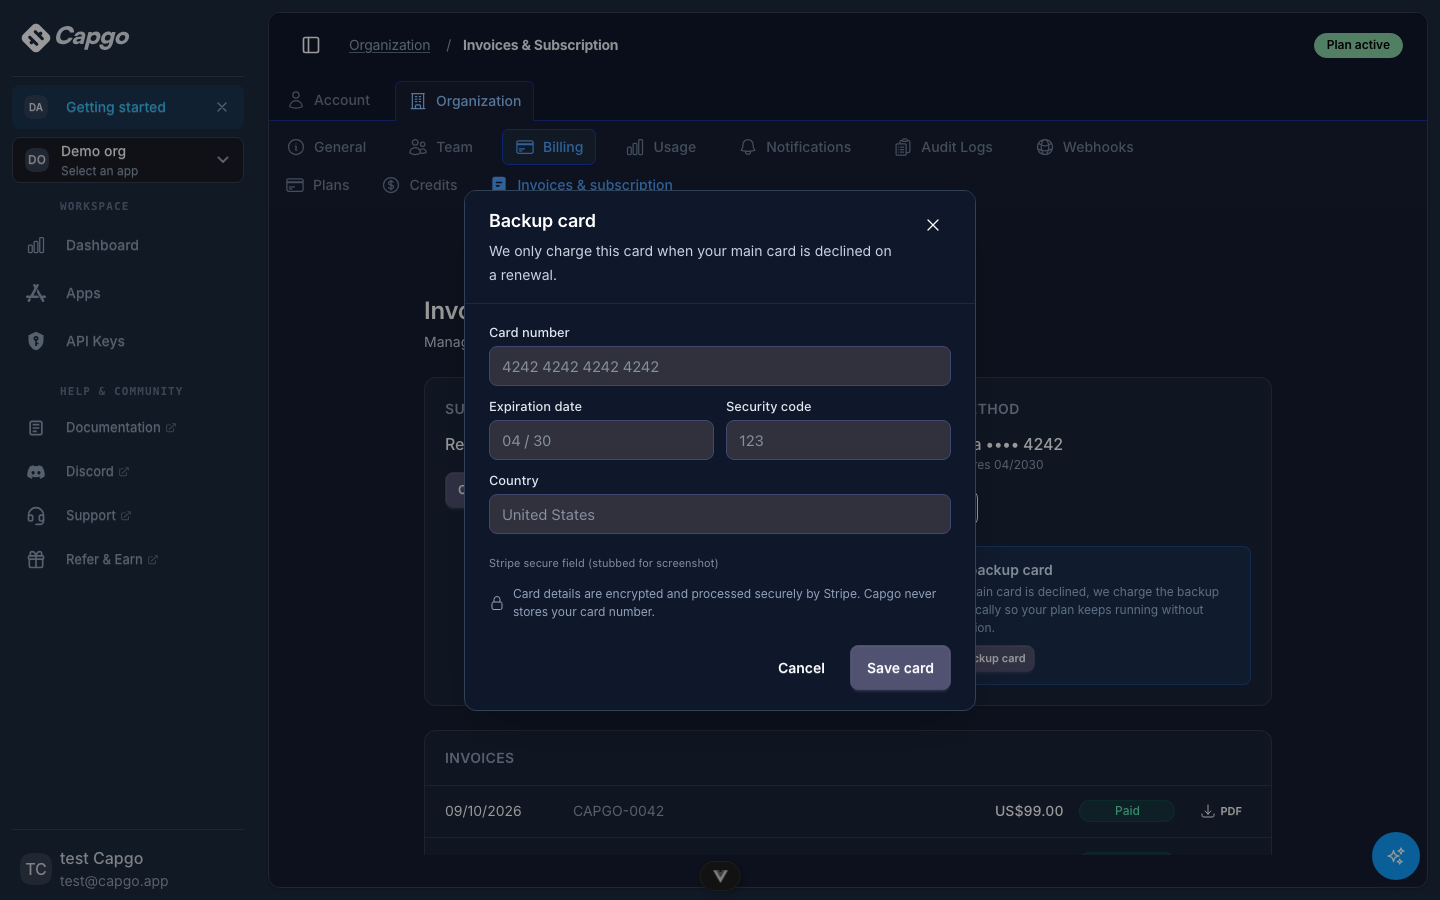
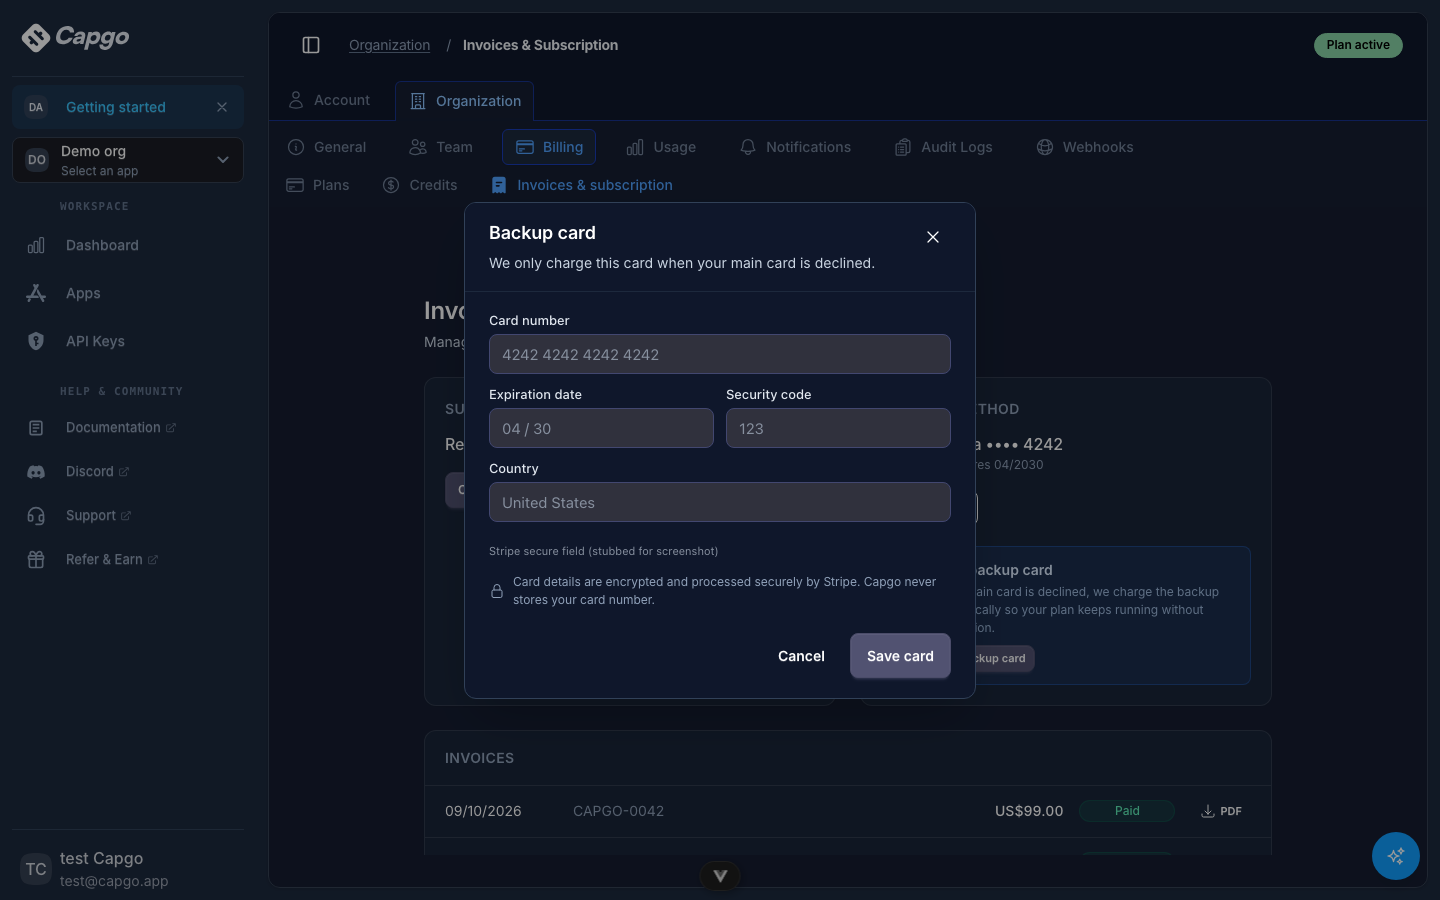
fix(billing): keep a single backup card and scope removal to its org
- Saving a backup retires older spare cards, and removing it detaches them,
  so a superseded card can never come back as the backup. Cards Stripe may
  charge on its own (subscription card, customer default) are never detached.
- Reject the main card as its own backup (same fingerprint).
- Lock removal before the permission check and ignore results after an org switch.
- Backup copy covers every fallback, not only renewals.

Changed region(s): [[0.3438, 0.3422, 0.6562, 0.7778], [0.3438, 0.2178, 0.625, 0.3111]]

diff --git a/supabase/functions/_backend/utils/stripe_in_app.ts b/supabase/functions/_backend/utils/stripe_in_app.ts
@@ -128,7 +128,7 @@ async function getSubscriptionDefaultPaymentMethod(c: Context, stripe: Stripe, c
 async function findSavedPaymentMethods(c: Context, stripe: Stripe, customerId: string, newCardId?: string) {
   const customer = await stripe.customers.retrieve(customerId, { expand: ['invoice_settings.default_payment_method'] })
   if (customer.deleted)
-    return { defaultPaymentMethod: null, backupPaymentMethod: null, isCustomerDefault: false }
+    return { defaultPaymentMethod: null, backupPaymentMethod: null, isCustomerDefault: false, spareCards: [] }
   const [cards, subscriptionDefault] = await Promise.all([
     stripe.paymentMethods.list({ customer: customerId, type: 'card', limit: 10 }),
     getSubscriptionDefaultPaymentMethod(c, stripe, customerId),
@@ -144,7 +144,22 @@ async function findSavedPaymentMethods(c: Context, stripe: Stripe, customerId: s
   const backupPaymentMethod = cards.data.find(paymentMethod => paymentMethod.id !== defaultPaymentMethod?.id
     && !isExpired(paymentMethod)
     && (!defaultFingerprint || paymentMethod.card?.fingerprint !== defaultFingerprint)) ?? null
-  return { defaultPaymentMethod, backupPaymentMethod, isCustomerDefault }
+  // Cards Stripe may charge on its own (subscription card, customer default) are never spare.
+  const inUse = new Set([subscriptionDefault?.id, isCustomerDefault ? customerDefault.id : undefined, defaultPaymentMethod?.id])
+  const spareCards = cards.data.filter(paymentMethod => !inUse.has(paymentMethod.id))
+  return { defaultPaymentMethod, backupPaymentMethod, isCustomerDefault, spareCards }
+}
+
+// Only one backup at a time: an older spare card must never come back as the backup.
+async function detachSpareCards(c: Context, ctx: InAppBillingContext, spareCards: Stripe.PaymentMethod[], keepId?: string) {
+  await Promise.all(spareCards.filter(paymentMethod => paymentMethod.id !== keepId).map(async (paymentMethod) => {
+    try {
+      await ctx.stripe.paymentMethods.detach(paymentMethod.id)
+    }
+    catch (error) {
+      cloudlogErr({ requestId: c.get('requestId'), message: 'detachSpareCards', customerId: ctx.customerId, paymentMethodId: paymentMethod.id, error })
+    }
+  }))
 }
 
 export async function getSavedCards(c: Context, ctx: InAppBillingContext): Promise<SavedCards> {
@@ -231,11 +246,18 @@ export async function savePaymentMethodFromIntent(c: Context, ctx: InAppBillingC
   if (paymentMethod.customer !== ctx.customerId)
     await ctx.stripe.paymentMethods.attach(paymentMethodId, { customer: ctx.customerId })
   if (role === 'backup') {
-    const { defaultPaymentMethod, isCustomerDefault } = await findSavedPaymentMethods(c, ctx.stripe, ctx.customerId, paymentMethodId)
+    const { defaultPaymentMethod, isCustomerDefault, spareCards } = await findSavedPaymentMethods(c, ctx.stripe, ctx.customerId, paymentMethodId)
     if (defaultPaymentMethod && defaultPaymentMethod.id !== paymentMethodId) {
+      const fingerprint = paymentMethod.card?.fingerprint
+      if (fingerprint && fingerprint === defaultPaymentMethod.card?.fingerprint) {
+        // The same physical card cannot back itself up.
+        await ctx.stripe.paymentMethods.detach(paymentMethodId)
+        throw simpleError('backup_same_as_primary', 'This card is already your main card')
+      }
       // Pin the current primary so the newer backup can never be mistaken for it.
       if (!isCustomerDefault)
         await ctx.stripe.customers.update(ctx.customerId, { invoice_settings: { default_payment_method: defaultPaymentMethod.id } })
+      await detachSpareCards(c, ctx, spareCards, paymentMethodId)
       cloudlog({ requestId: c.get('requestId'), message: 'in-app backup card saved', customerId: ctx.customerId, paymentMethodId })
       return toCardSummary(paymentMethod)
     }
@@ -265,10 +287,12 @@ export function parsePaymentMethodRole(value: unknown): PaymentMethodRole {
 
 // Only the backup can be removed: the default keeps renewals working.
 export async function removeBackupCard(c: Context, ctx: InAppBillingContext, paymentMethodId: string) {
-  const { backupPaymentMethod } = await findSavedPaymentMethods(c, ctx.stripe, ctx.customerId)
+  const { backupPaymentMethod, spareCards } = await findSavedPaymentMethods(c, ctx.stripe, ctx.customerId)
   if (!backupPaymentMethod || backupPaymentMethod.id !== paymentMethodId)
     throw simpleError('invalid_payment_method', 'This card is not the backup card')
   await ctx.stripe.paymentMethods.detach(paymentMethodId)
+  // Older spare cards would otherwise become the next backup and keep fallback charging on.
+  await detachSpareCards(c, ctx, spareCards, paymentMethodId)
   cloudlog({ requestId: c.get('requestId'), message: 'in-app backup card removed', customerId: ctx.customerId, paymentMethodId })
   return await getSavedCards(c, ctx)
 }

diff --git a/tests/stripe-in-app-billing.unit.test.ts b/tests/stripe-in-app-billing.unit.test.ts
@@ -167,7 +167,7 @@ describe('backup card', () => {
   it('picks the newest valid card that is not the default', async () => {
     const stripe = createStripe()
     const main = card('pm_main', 'fp_main')
-    mockSavedCards(stripe, main, [card('pm_same', 'fp_main'), card('pm_expired', 'fp_old', 2020), main, card('pm_back', 'fp_back')])
+    mockSavedCards(stripe, main, [card('pm_same', 'fp_main'), card('pm_expired', 'fp_old', 2020), main, card('pm_back', 'fp_back'), card('pm_older', 'fp_older')])
 
     const cards = await getSavedCards(createContext(), createBillingContext(stripe))
 
@@ -224,6 +224,56 @@ describe('backup card', () => {
     expect(saved?.id).toBe('pm_back')
     expect(stripe.customers.update).not.toHaveBeenCalled()
     expect(stripe.subscriptions.update).not.toHaveBeenCalled()
+  })
+
+  it('retires the previous backup when a new one is saved', async () => {
+    const stripe = createStripe()
+    const main = card('pm_main', 'fp_main')
+    mockSavedCards(stripe, main, [card('pm_new', 'fp_new'), main, card('pm_old', 'fp_old')])
+    stripe.setupIntents.retrieve.mockResolvedValue({ customer: 'cus_123', status: 'succeeded', payment_method: 'pm_new' })
+    stripe.paymentMethods.retrieve.mockResolvedValue(card('pm_new', 'fp_new'))
+
+    await savePaymentMethodFromIntent(createContext(), createBillingContext(stripe), 'seti_123', 'backup')
+
+    expect(stripe.paymentMethods.detach).toHaveBeenCalledTimes(1)
+    expect(stripe.paymentMethods.detach).toHaveBeenCalledWith('pm_old')
+  })
+
+  it('rejects the main card as its own backup', async () => {
+    const stripe = createStripe()
+    const main = card('pm_main', 'fp_main')
+    mockSavedCards(stripe, main, [card('pm_dup', 'fp_main'), main])
+    stripe.setupIntents.retrieve.mockResolvedValue({ customer: 'cus_123', status: 'succeeded', payment_method: 'pm_dup' })
+    stripe.paymentMethods.retrieve.mockResolvedValue(card('pm_dup', 'fp_main'))
+
+    await expect(savePaymentMethodFromIntent(createContext(), createBillingContext(stripe), 'seti_123', 'backup')).rejects.toThrow()
+    expect(stripe.paymentMethods.detach).toHaveBeenCalledWith('pm_dup')
+  })
+
+  it('removing the backup does not revive an older card', async () => {
+    const stripe = createStripe()
+    const main = card('pm_main', 'fp_main')
+    mockSavedCards(stripe, main, [card('pm_back', 'fp_back'), main, card('pm_old', 'fp_old')])
+
+    await removeBackupCard(createContext(), createBillingContext(stripe), 'pm_back')
+
+    expect(stripe.paymentMethods.detach).toHaveBeenCalledWith('pm_back')
+    expect(stripe.paymentMethods.detach).toHaveBeenCalledWith('pm_old')
+    expect(stripe.paymentMethods.detach).not.toHaveBeenCalledWith('pm_main')
+  })
+
+  it('never detaches the customer default when the subscription uses another card', async () => {
+    const stripe = createStripe()
+    const subscriptionCard = card('pm_sub', 'fp_sub')
+    const customerDefault = card('pm_cust', 'fp_cust')
+    mockSavedCards(stripe, customerDefault, [card('pm_back', 'fp_back'), customerDefault, subscriptionCard])
+    mocks.getActiveSubscriptionId.mockResolvedValue('sub_123')
+    stripe.subscriptions.retrieve.mockResolvedValue({ default_payment_method: subscriptionCard })
+
+    await removeBackupCard(createContext(), createBillingContext(stripe), 'pm_back')
+
+    expect(stripe.paymentMethods.detach).toHaveBeenCalledTimes(1)
+    expect(stripe.paymentMethods.detach).toHaveBeenCalledWith('pm_back')
   })
 
   it('only accepts known roles', () => {

diff --git a/src/pages/settings/organization/Billing.vue b/src/pages/settings/organization/Billing.vue
@@ -116,18 +116,26 @@ async function openCardForm(mode: 'setup' | 'backup' = 'setup') {
 
 async function removeBackup() {
   const backup = backupCard.value
-  if (!backup || isRemovingBackup.value || !await requireUpdateBilling())
+  // Scope the request to the org that rendered this card.
+  const id = orgId.value
+  if (!backup || !id || isRemovingBackup.value)
     return
+  // Lock before the async permission check so double clicks send one request.
   isRemovingBackup.value = true
   try {
-    const cards = await removeBackupCard(orgId.value, backup.id)
+    if (!await requireUpdateBilling())
+      return
+    const cards = await removeBackupCard(id, backup.id)
+    if (orgId.value !== id)
+      return
     if (overview.value)
       overview.value = { ...overview.value, ...cards }
     toast.success(t('billing-backup-card-removed'))
   }
   catch (error) {
     console.error('Cannot remove backup card', error)
-    toast.error(t('billing-backup-card-remove-failed'))
+    if (orgId.value === id)
+      toast.error(t('billing-backup-card-remove-failed'))
   }
   finally {
     isRemovingBackup.value = false

diff --git a/src/components/billing/CardFormModal.vue b/src/components/billing/CardFormModal.vue
@@ -7,6 +7,7 @@ import { useI18n } from 'vue-i18n'
 import { toast } from 'vue-sonner'
 import IconLock from '~icons/heroicons/lock-closed'
 import BillingModal from '~/components/billing/BillingModal.vue'
+import { getCapgoApiErrorCode } from '~/services/capgoApi'
 import { createCardSetupIntent, getInvoicePaymentIntent, getStripeJs, savePaymentMethod } from '~/services/stripe'
 
 const props = defineProps<{
@@ -134,7 +135,10 @@ async function submit() {
   }
   catch (error) {
     console.error('Card form submit failed', error)
-    errorMessage.value = props.mode === 'invoice' ? t('billing-payment-failed') : t('billing-card-save-failed')
+    if (props.mode === 'backup' && await getCapgoApiErrorCode(error) === 'backup_same_as_primary')
+      errorMessage.value = t('billing-backup-card-same-as-main')
+    else
+      errorMessage.value = props.mode === 'invoice' ? t('billing-payment-failed') : t('billing-card-save-failed')
   }
   finally {
     isSubmitting.value = false
